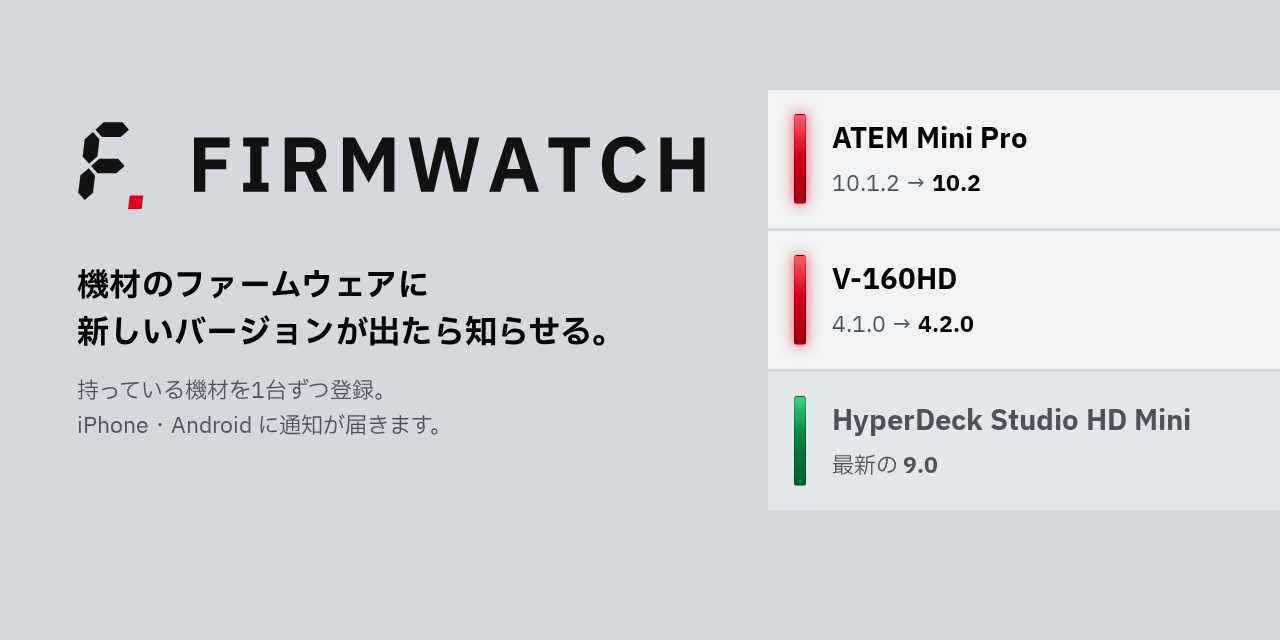
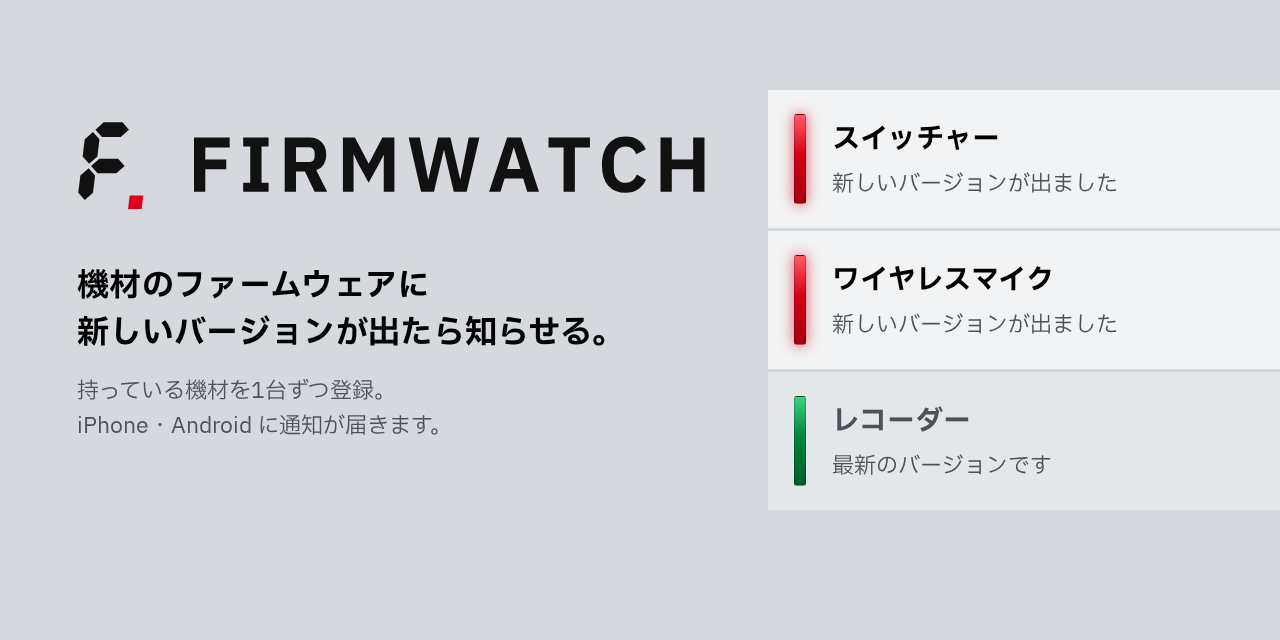
ソーシャルプレビューから機種名と実在しないバージョンを外す（0.6.4）
Claude-Session: https://claude.ai/code/session_01Gt7kNckmr8Qghn2jAWeEHj

diff --git a/web/index.html b/web/index.html
@@ -17,7 +17,7 @@
     <meta property="og:image" content="https://firmwatch.kajisho5.workers.dev/og.png" />
     <meta property="og:image:width" content="1200" />
     <meta property="og:image:height" content="630" />
-    <meta property="og:image:alt" content="FIRMWATCH のロゴと、新しいバージョンが出た機材の一覧の例" />
+    <meta property="og:image:alt" content="FIRMWATCH のロゴと、機材ごとに新しいバージョンの有無を赤と緑のランプで示す一覧" />
     <meta property="og:locale" content="ja_JP" />
     <meta name="twitter:card" content="summary_large_image" />
     <link rel="icon" href="/favicon.svg" type="image/svg+xml" />
